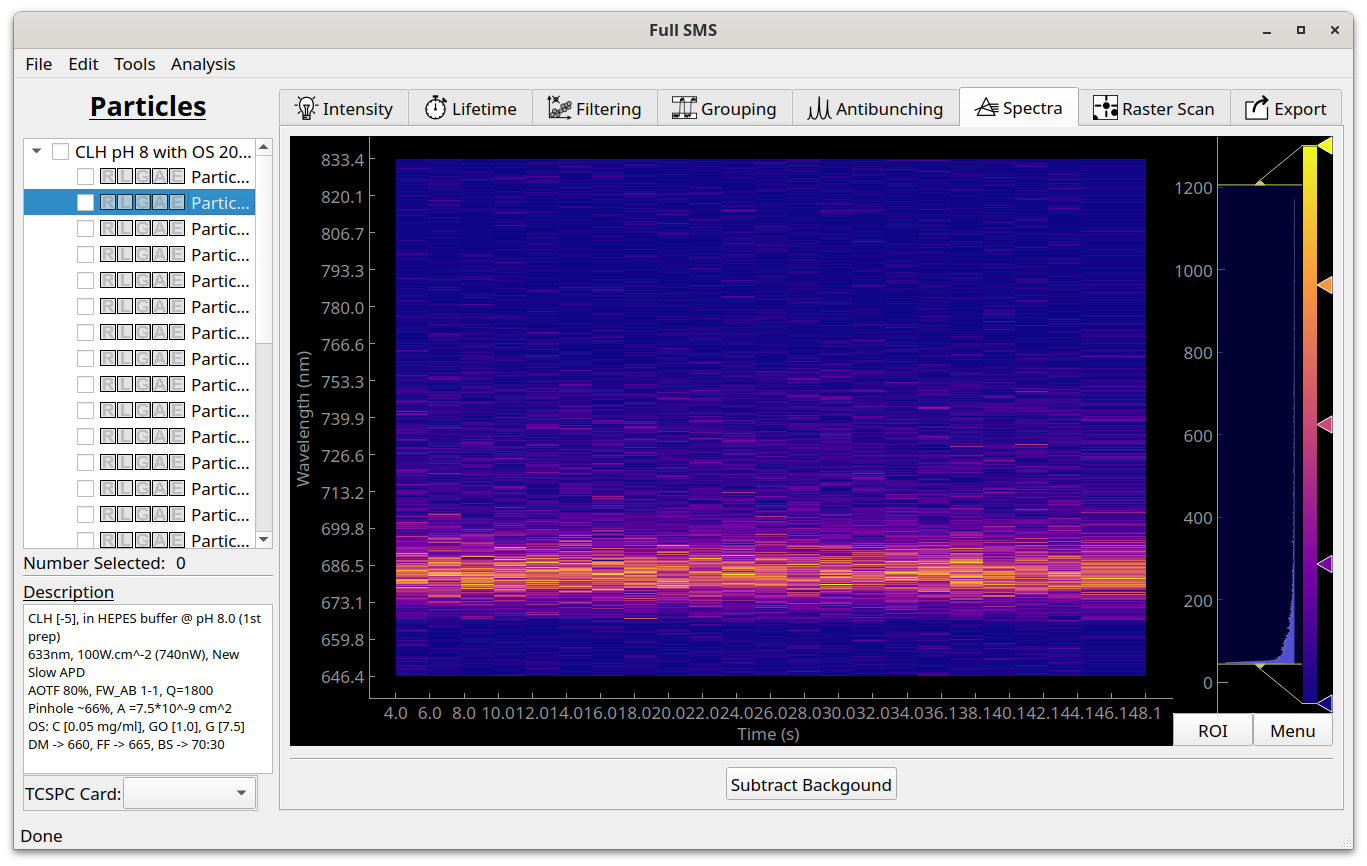
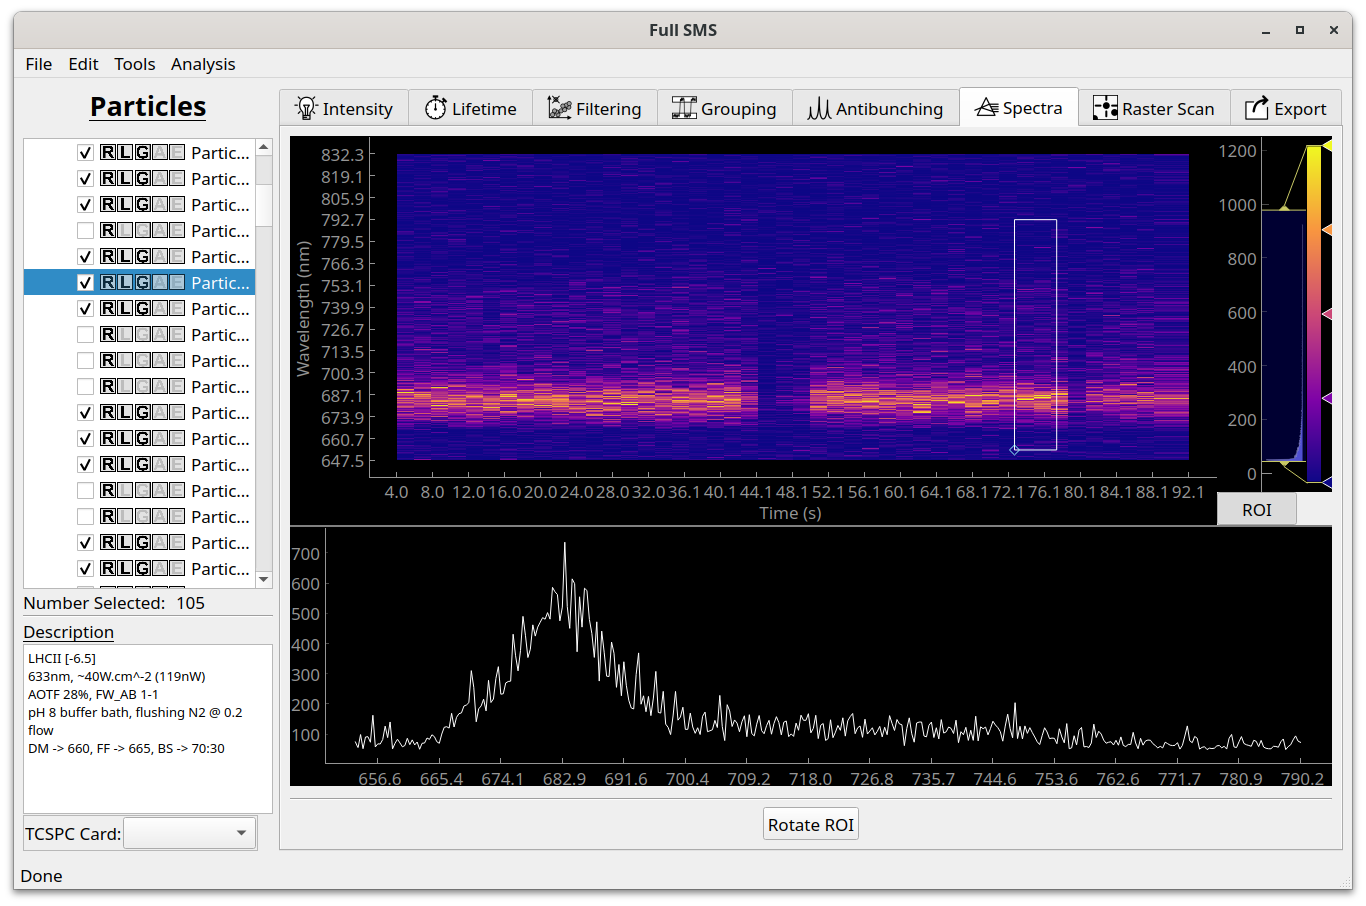
Updated docs as part of manuscript revision.

diff --git a/docs/usage/level_resolution.rst b/docs/usage/level_resolution.rst
@@ -5,14 +5,17 @@ Intensity level resolution
    :alt: Intensity tab in the GUI
    :align: left
 
-The Intensity tab shows the binned fluorescence intensity. The bin size can be changed usiong the control in the lower
-left, and applied to either the current particle or to all particles. If two channels were recorded, the second channl
-dfdfdf intensity can be shown along with the first by selecting "2nd card". If a pre-binned trace is included in the
-measurement file, it can be shown by selecting "Exp trace". The :doc:`region of interest <roi>` can be hidden or edited
-by selecting "Show ROI". On the right hand side of the trace, a histogram of intensities are shown.
+The Intensity tab shows the binned fluorescence intensity. The bin size can be changed using the control in the lower
+left, and applied to either the current particle or to all particles (this binning is only used for visual display
+and does not affect the change-point analysis).
+If two channels were recorded, the second channel intensity can be shown along with the first by selecting "2nd card".
+If a pre-binned trace is included in the measurement file, it can be shown by selecting "Exp trace". The :doc:`region
+of interest <roi>` can be hidden or edited by selecting "Show ROI". On the right hand side of the trace, a histogram
+of intensities are shown.
 
-Intensity levels can be resolved using change-point analysis in the "Intensity" tab. First choose a confidence level,
-then click "Resolve" to resolve the current particle levels, "Resolve Selected" ot resolve all selected particles, or
+Intensity levels can be resolved using change-point analysis in the "Intensity" tab. This will happen automatically
+upon loading a dataset, unless aborted by the user. First choose a confidence level,
+then click "Resolve" to resolve the current particle levels, "Resolve Selected" to resolve all selected particles, or
 "Resolve All" to resolve the levels for all particles.
 
 .. image:: images/resolved.png
@@ -22,10 +25,30 @@ then click "Resolve" to resolve the current particle levels, "Resolve Selected" 
 Resolved levels are now displayed over the intensity trace. The change-point analysis uses the algorithm from Watkins
 and Yang [#]_  and the confidence is a measure of how strict the algorithm is with deciding on a change point. A lower
 confidence will therefore result in more fitted levels - it is up to the user to decide the best value for their
-application.
+application. The pane on the right now shows a histogram of the binned intensities
+(grey) and a level-duration weighted distribution of the resolved intensity
+levels (black). More information is available about the whole trace, or a selected level, by selecting "Level Info":
 
-Sometimes, a dialog will pop up to let you know that one
-or more "photon bursts" have been detected:
+Whole trace info:
+
+.. image:: images/whole_trace_info.png
+   :alt: Whole trace info display
+   :align: left
+
+Single level info:
+
+.. image:: images/single_level_info.png
+   :alt: Single level info display
+   :align: left
+
+Two-channel data can be displayed by selecting "2nd Card":
+
+.. image:: images/2channel.png
+   :alt: Two-channel intensity trace display
+   :align: left
+
+Sometimes, after resolving levels, a dialog will pop up to let you know that one or more "photon bursts" have been
+detected:
 
 .. image:: images/photonburst_dialog.png
    :alt: Intensity tab in the GUI after resolving levels

diff --git a/docs/usage/get_good_fits.rst b/docs/usage/get_good_fits.rst
@@ -4,10 +4,15 @@ How to get good fits
 There is endless literature on the topic of TCSPC decay fitting; what follows is some tips as to what works with Full SMS
 and the types of data it was designed to analyse.
 
-*   Full SMS uses a non-linear least-squares optimization as implemented in |scipy.optimize.curve_fit|_. In general, this
-    type of optimization requires good initial guess values for parameters, so it is a good idea to use the interactive tool
-    to find parameters that roughly fit the decay before running the fit.
-*   If you are using a measured IRF, make sure it is measured at high count rate so that there is no discernable noise
+*   Full SMS offes two types of fitting: non-linear least-squares and maximum likelihood. The former is highly robust
+    and computationally efficient, however it delivers incorrect results at low photon numbers, where ML is
+    preferred due to its correct accounting for Poisson noise (LS assumes Gaussian noise).
+*   A detailed comparison of the performance of our implementations of ML an LS is still in the works, however,
+    literature suggests decays with less than 20 000 photons should be fitted with ML [#]_.
+*   In general,
+    both these optimization techniques require good initial guess values for parameters, so it is a good idea to use
+    the interactive tool to find parameters that roughly fit the decay before running the fit.
+*   If you are using a measured IRF, make sure it contains enough counts so that there is no discernable noise
     in the decay. Noise in the IRF will translate to noise in the fitted decay.
 *   Start with a 1-component fit and move on to 2 and from there to 3 components if the fit is not satisfactory.
     Overfitting typically results in components with idential lifetimes or tiny amplitudes.
@@ -33,8 +38,10 @@ and the types of data it was designed to analyse.
     that are commonly found around the beginning and end of the decay. Therefore, it is usually necessary to set the
     startpoint and endpoint as described above, with a higher statistical significance for lower values.
 
+.. [#] Maus, M. et al. Anal. Chem. 73, 2078–2086 (2001) https://doi.org/10.1021/ac000877g.
 .. [#] Values above 2 indicate negative autocorrelation, which is not normally found in the residuals.
 .. [#] More precisely, the values are lower bounds on the critical values of the distribution, since the exact values
-       cannot generally be determined, see Turner 2019 for details.
+       cannot generally be determined, for details see Turner, P. Applied Economics Letters 27, 1495–1499 (2020)
+       https://doi.org/10.1080/13504851.2019.1691711.
 .. |scipy.optimize.curve_fit| replace:: ``scipy.optimize.curve_fit``
 .. _scipy.optimize.curve_fit: https://docs.scipy.org/doc/scipy/reference/generated/scipy.optimize.curve_fit.html#scipy.optimize.curve_fit

diff --git a/docs/usage/lifetime_userguide.rst b/docs/usage/lifetime_userguide.rst
@@ -15,8 +15,12 @@ Lifetime fitting is performed using the Lifetime tab:
    :align: left
 
 The decay histogram is displayed for the whole trace or for individual levels or grouped levels.
-The fitted intensity trace is also displayed at the top in order to navigate trough levels or groups(use
-the left and right arrows next to the upper plot as well as the "To Groups" and "Whole Trace" buttons.)
+The fitted intensity trace is also displayed at the top in order to navigate trough levels or groups (click on the
+level, or use the left and right arrows next to the upper plot as well as the "To Groups" and
+"Whole Trace" buttons). Below the displayed intensity trace are options to apply the trace ROI for the current,
+selected, or all particles (i.e., to include only the ROI photons in the lifetime fits), as well as the option to show
+the fit residuals plot, and options to show the groups instead of the resolved levels in the intensity trace plot, so
+that they can be selected and their decay histograms and fitting results viewed.
 
 An IRF can be loaded by clicking on "Load IRF". Before performing a fit, click on "Fitting Parameters".
 This brings up a dialog:
@@ -25,11 +29,15 @@ This brings up a dialog:
    :alt: Lifetime fitting dialog
    :align: left
 
-Different fitting parameters can here be interactively adjusted. The parameters that are optimized as part of the fit
+Different fitting parameters can here be interactively adjusted. At the top left is the number of lifetime exponents
+that should be fit. The parameters that are optimized as part of the fit
 routine are the lifetimes, amplitudes, IRF shift and, if the option to simulate an IRF is chosen, the simulated IRF
-full-width at half maximum (fwhm). Values can be specified for the decay and IRF background values, or these fields can
+full-width at half maximum (fwhm). Initial values as well as boundaries can be specified for these parameters. Values
+can be specified for the decay and IRF background values, or these fields can
 be left blank, in which case the values will be automatically be determined prior to fitting. The start and endpoints
-for fitting can also be specified or set to automatically determined values.
+for fitting can also be specified or set to automatically determined values. Lastly, at the top
+right are options to use maximum-likelihood fitting and to normalise the lifetime amplitudes (see
+:doc:`get_good_fits` for details on these options).
 
 After choosing suitable starting values, click on "OK" to close the dialog. Now a fit(s) can be performed by clicking on
 the relevant "Fit ..." button. Once completed, the fitted curve will be displayed along with the residuals, and the fit

diff --git a/docs/usage/grouping.rst b/docs/usage/grouping.rst
@@ -11,15 +11,22 @@ clustering (AHC). This is done in the Grouping tab.
 To group levels on an individual particle basis, use "Group Current", "Group Selected" or "Group All" buttons to
 group levels for the current, selected or all particles.
 
-.. image:: images/ungrouped.png
+.. image:: images/grouped.png
    :alt: Intensity tab in the GUI
    :align: left
 
 After performing grouping, the groups are displayed on the intensity trace as dashed lines, with alternating purple and
 no coloring indicating the intensities included in each group. Below the intensity trace, the Bayesian information
-criterion (BIC) values used in the AHC algorithm are shown. The algorithm with one group and progressively increases
+criterion (BIC) values used in the AHC algorithm are shown. The algorithm starts with one group and progressively
+increases
 the number until a maximal BIC is reached. This represents a balance between accurately fitting the data and having
-as few groups as possible. For detail sees Watkins and Yang 2005 [#]_.
+as few groups as possible. For detail sees Watkins and Yang 2005 [#]_. The option that is currently applied is indicated by the red
+outline, but the user can apply different solutions by clicking on any of the other
+circles. In this example, the best solution is also applied. On the bottom right are
+options to include only the ROI of each trace in the analysis, to group the levels of the
+current, selected or all particles, and to “apply” the groups to the levels (i.e., change
+each level’s intensity to that of its associated group). After performing the grouping,
+the groups can also be viewed in the Intensity tab.
 
 .. [#] Watkins and Yang, J. Phys. Chem. B 2005, 109, 617-628 (http://pubs.acs.org/doi/abs/10.1021/jp0467548)
 

diff --git a/docs/usage/antibunching.rst b/docs/usage/antibunching.rst
@@ -4,7 +4,8 @@ Antibunching analysis
 In the Antibunching tab, the second order photon correlation can be calculated. This requires data measured in two
 channels. The window over which the calculation is done can be adjusted along with the bin size. A time difference
 can also be input for cases where there is some delay between the two channels (seen as the "zero peak" not lining up
-with the zero delay time.)
+with the zero delay time). Since the second-order correlation function is quite a weak signal for dim emitters, the
+top pane of the tab shows the sum over all selected particles, which may show a clearer signal.
 
 .. image:: images/antibunching.png
    :alt: Antibunching tab in the GUI

diff --git a/docs/usage/spectra.rst b/docs/usage/spectra.rst
@@ -2,7 +2,10 @@ Viewing spectra
 ===============
 
 At the moment, Full SMS only provides functionality to view spectral time traces in the "Spectra" tab and no analysis
-can be done. This is on our list of future additions!
+can be done. This is on our list of future additions! The display does allow for viewing spectra as a function of
+wavelength by defining an ROI. To do this, click on "ROI" and then on "Rotate ROI" if necessary to view the spectrum
+as a function of wavelength. Reshape the ROI by dragging its corner. The color bar can be adjusted on the left hand
+side, where a histogram of pixel values is also shown.
 
 .. image:: images/spectra.png
    :alt: Spectra tab in the GUI

diff --git a/docs/usage/filtering.rst b/docs/usage/filtering.rst
@@ -21,6 +21,13 @@ Investigation" and clicking "Plot". For example, an intensity-lifetime plot look
    :alt: Filtering tab in the GUI showing scatter plot
    :align: left
 
+The number of histogram bins is set automatically
+but can also be set manually under "#Bins" by first unselecting
+"Auto". If
+"Only Drift" is checked, only intensities below the regression line
+will be normalised, else all intensities are normalised. Selecting
+"All" applies the normalisation to all levels and groups instead of
+only the currently displayed data.
 This data can also be filtered, for example based on minimum and maximum lifetime values:
 
 .. image:: images/2dfilter.png

diff --git a/docs/usage/installation.rst b/docs/usage/installation.rst
@@ -17,6 +17,7 @@ To install from source, Python 3 is required along with the following packages:
 | pyarrow
 | dill
 | h5pickle
+| numdifftools
 
 Python can be installed from https://www.python.org/downloads/.
 
